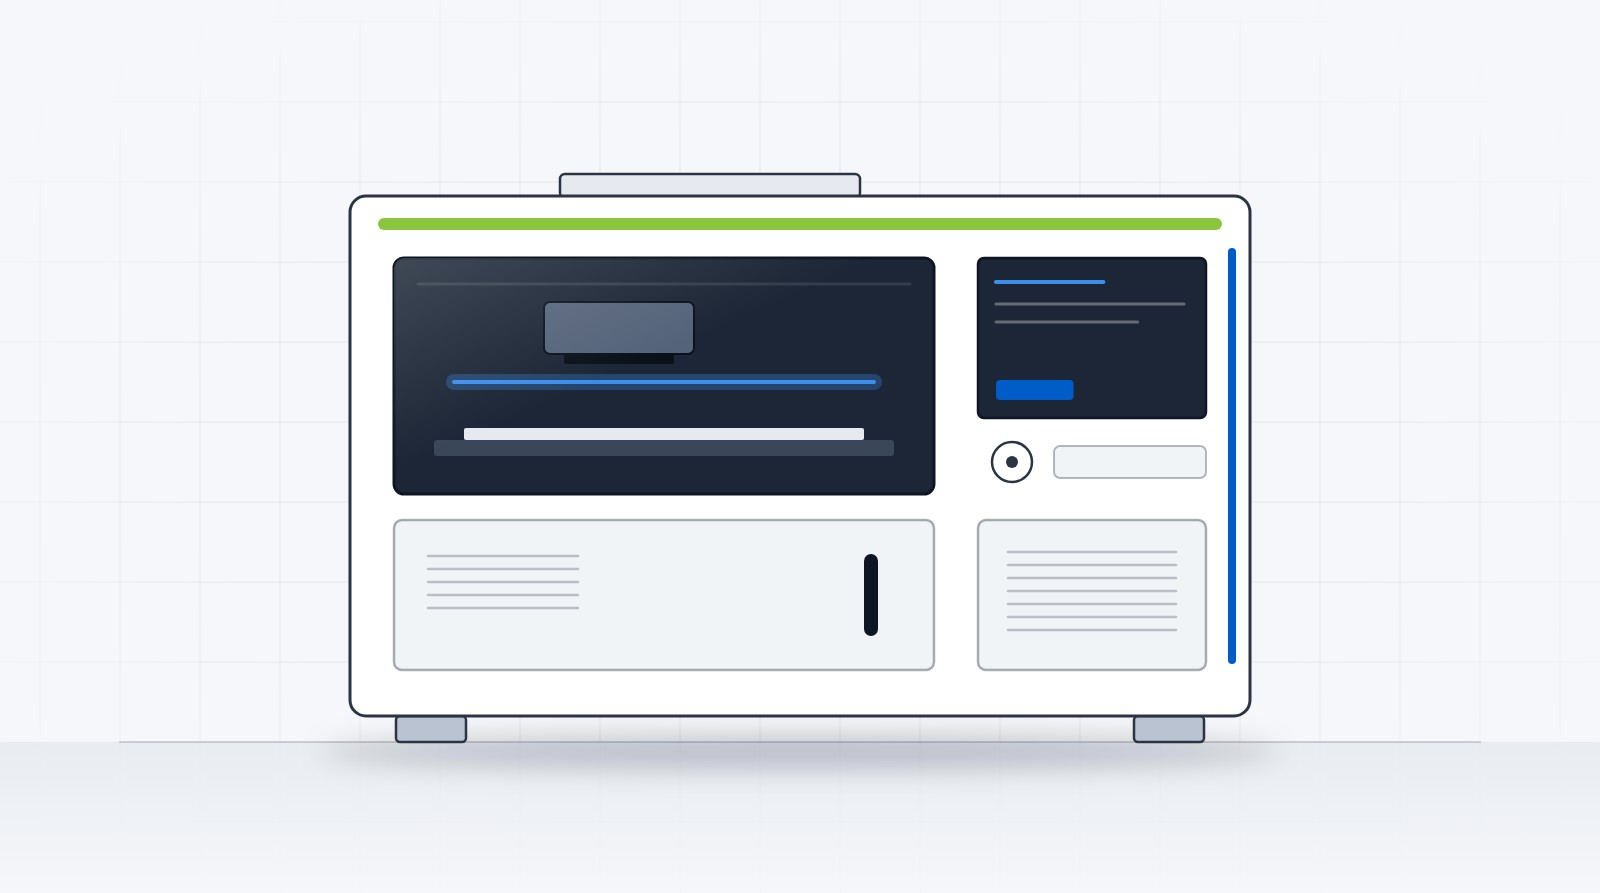
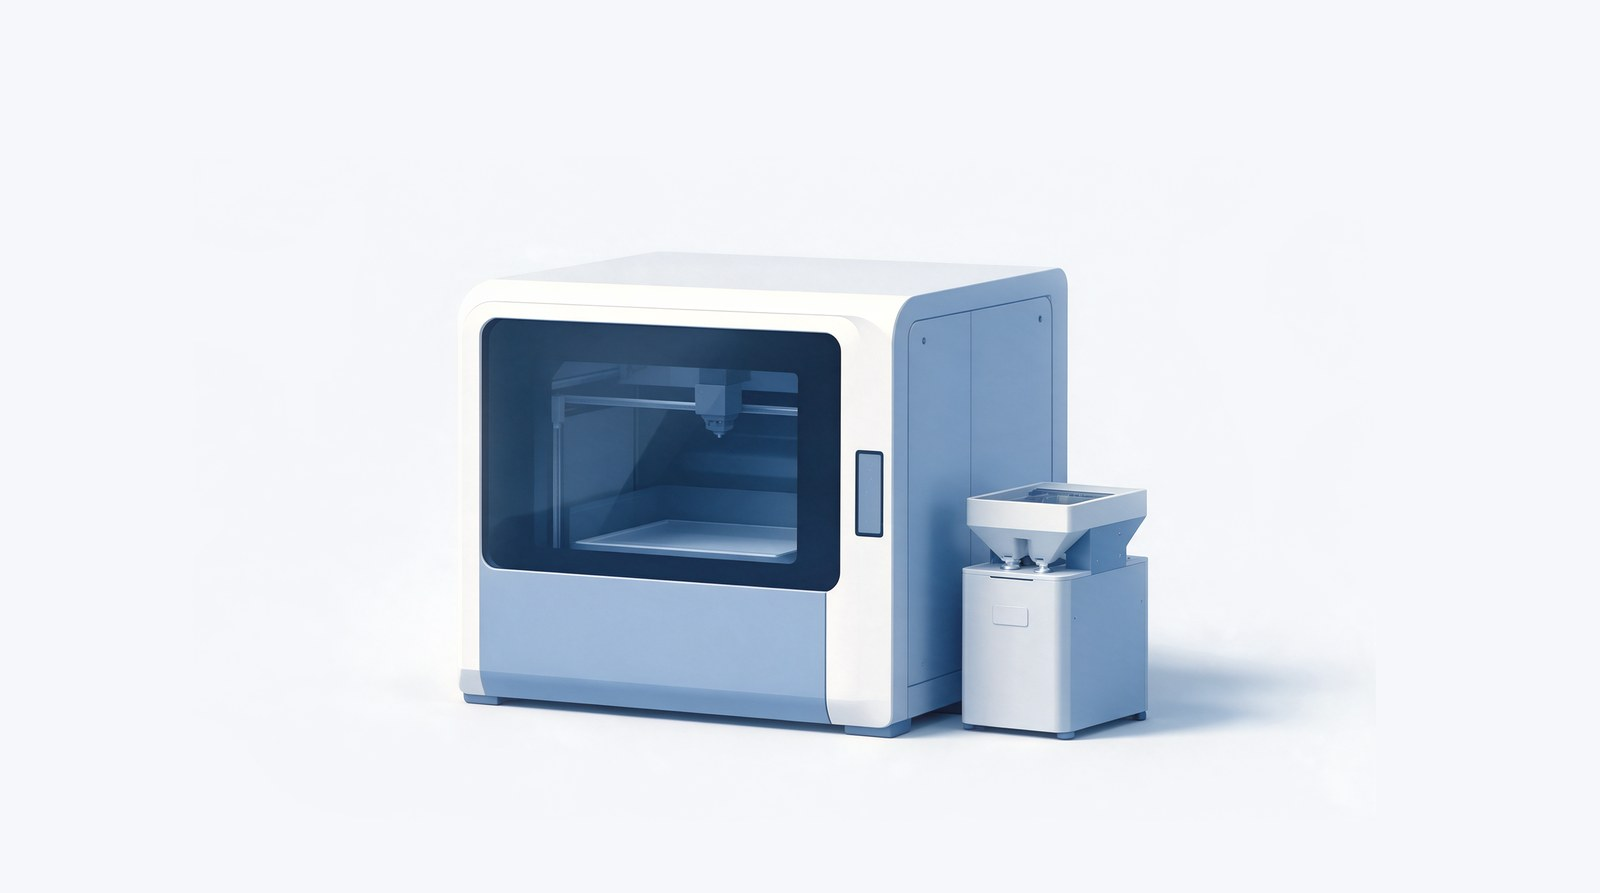
Hub machines: AI-rendered Print and Mill images replace the drawings
Print B and Mill F from kie.ai (soft blue isometric), background matched to
#F5F7FA, fitted to the 16:6.2 door crop, find/offer versions carry the pin and
network node. Same file names in all three image folders; alt texts updated.

Changed region(s): [[0.1875, 0.1814, 0.8438, 0.8768]]

diff --git a/hub/index.html b/hub/index.html
@@ -85,7 +85,7 @@ until the scenes are remade with Chris.
     <div class="hub-bands">
       <a class="hub-band" href="https://printhub.nexpoint.co.uk/">
         <div class="hub-band__media">
-          <img src="assets/img/print-hub.jpg" alt="Illustration of an enclosed industrial 3D printer, seen from the front">
+          <img src="assets/img/print-hub.jpg" alt="Illustration of an enclosed industrial 3D printer with a powder unit beside it">
           <span class="status"><span class="live-dot"></span>Live</span>
         </div>
         <div class="hub-band__body">
@@ -97,7 +97,7 @@ until the scenes are remade with Chris.
 
       <a class="hub-band hub-band--flip" href="https://millhub.nexpoint.co.uk/">
         <div class="hub-band__media">
-          <img src="assets/img/mill-hub.jpg" alt="Illustration of an enclosed CNC milling machine, seen from the front">
+          <img src="assets/img/mill-hub.jpg" alt="Illustration of an enclosed CNC milling machine with its control screen">
           <span class="status"><span class="live-dot"></span>Live</span>
         </div>
         <div class="hub-band__body">

diff --git a/millhub/index.html b/millhub/index.html
@@ -321,7 +321,7 @@ capacity CTAs collapsed into one door · logo path fixed.
         <span class="kicker">Next door</span>
         <h3>Certified 3D-printing capacity, worldwide: the Global Print Hub <svg width="18" height="18" viewBox="0 0 24 24" fill="none" stroke="currentColor" stroke-width="2.4" aria-hidden="true"><path d="M5 12h14M13 6l6 6-6 6"/></svg></h3>
       </div>
-      <img src="assets/img/print-hub.jpg" alt="Illustration of an enclosed industrial 3D printer, seen from the front">
+      <img src="assets/img/print-hub.jpg" alt="Illustration of an enclosed industrial 3D printer with a powder unit beside it">
     </a>
   </div>
 </section>

diff --git a/printhub/index.html b/printhub/index.html
@@ -295,7 +295,7 @@ own pages · logo path fixed.
         <span class="kicker">Next door</span>
         <h3>Milled production, run as your own line: the Global Mill Hub <svg width="18" height="18" viewBox="0 0 24 24" fill="none" stroke="currentColor" stroke-width="2.4" aria-hidden="true"><path d="M5 12h14M13 6l6 6-6 6"/></svg></h3>
       </div>
-      <img src="assets/img/mill-hub.jpg" alt="Illustration of an enclosed CNC milling machine, seen from the front">
+      <img src="assets/img/mill-hub.jpg" alt="Illustration of an enclosed CNC milling machine with its control screen">
     </a>
   </div>
 </section>
